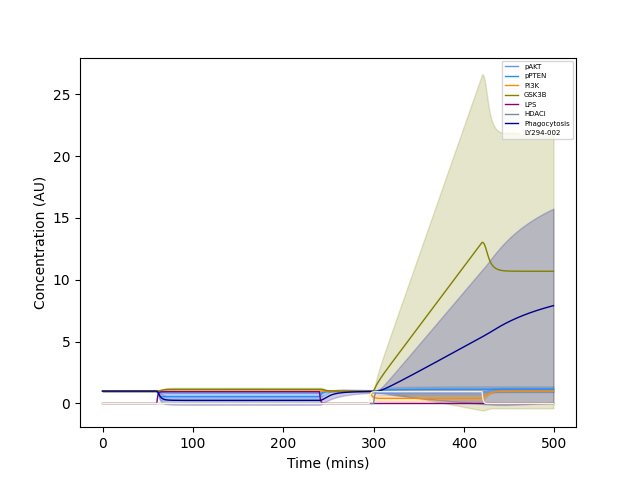
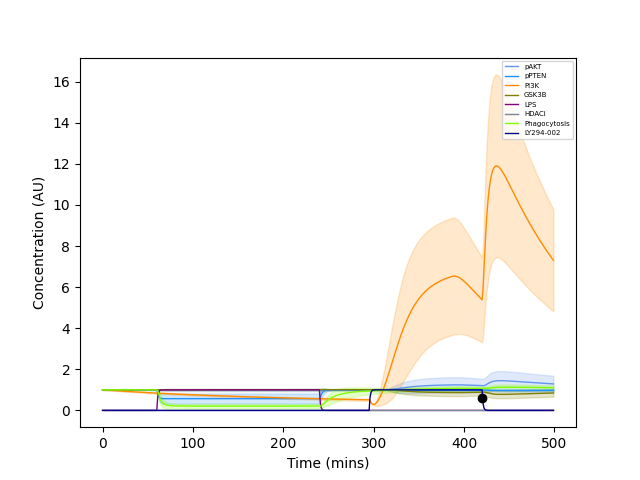
testing addition of ATP and PI3K

diff --git a/model_fitting_and_evaluation.py b/model_fitting_and_evaluation.py
@@ -49,8 +49,14 @@ if __name__ == "__main__":
     # check unfitted rates error
     print("Randomly Generated Error")
     network.set_parameters(np.random.rand(len([p for p in network.parameters.values() if p.fixed==False])), [p.identifier for p in network.parameters.values() if p.fixed==False])
-    original = network.graph_distributions(time, args.number, substrates_to_plot=["PI3K", "pAKT", "pPTEN", "Phagocytosis", "LPS", "HDACi", "GSK3B", "LY294-002"], normalize=True, path=os.path.join(args.output, "figure_0.png"))
+    original, original_fig = network.graph_distributions(time, args.number, substrates_to_plot=["PI3K", "pAKT", "pPTEN", "Phagocytosis", "LPS", "HDACi", "GSK3B", "LY294-002"], normalize=True, path=os.path.join(args.output, "figure_0.png"), output_figure=True)
     print(error(original, fit_dictionary, list(network.substrates.keys())))
+    print("BV2 --> Primary")
+    print(error(original, {"Phagocytosis": {420: 0.6}}, list(network.substrates.keys())))
+    plt.figure(original_fig)
+    plt.plot(420, 0.6, "ko")
+    original_fig.savefig(os.path.join(args.output, "figure_0.png"))
+    plt.close(original_fig)
     print()
 
     # load in pretrained parameters if any
@@ -73,6 +79,12 @@ if __name__ == "__main__":
     print("LPS, HDACi, LY294-002 Error")
     mean_y, f = network.graph_distributions(time, args.number, substrates_to_plot=["PI3K", "pAKT", "pPTEN", "Phagocytosis", "LPS", "HDACi", "GSK3B", "LY294-002"], normalize=True, path=os.path.join(args.output, "figure_3.png"), output_figure=True)
     print(error(mean_y, fit_dictionary, list(network.substrates.keys())))
+    print("BV2 --> Primary")
+    print(error(mean_y, {"Phagocytosis": {420: 0.6}}, list(network.substrates.keys())))
+    plt.figure(f)
+    plt.plot(420, 0.6, "ko")
+    f.savefig(os.path.join(args.output, "figure_3.png"))
+    plt.close(f)
     print()
 
     # check post-training validation error
@@ -84,8 +96,14 @@ if __name__ == "__main__":
         "PIP3": {"410": 0.8, "420": 0.8,},
         "GSK3B": {"410": 1.1, "420": 1.1,}
         }
-    mean_lps_hdaci_y = network.graph_distributions(time, args.number, substrates_to_plot=["PI3K", "pAKT", "pPTEN", "Phagocytosis", "LPS", "HDACi", "GSK3B", "LY294-002"], normalize=True, path=os.path.join(args.output, "figure_2.png"))
+    mean_lps_hdaci_y, lh_fig = network.graph_distributions(time, args.number, substrates_to_plot=["PI3K", "pAKT", "pPTEN", "Phagocytosis", "LPS", "HDACi", "GSK3B", "LY294-002"], normalize=True, path=os.path.join(args.output, "figure_2.png"), output_figure=True)
     print(error(mean_lps_hdaci_y, lps_hdaci, list(network.substrates.keys())))
+    print("BV2 --> Primary")
+    print(error(mean_lps_hdaci_y, {"Phagocytosis": {420: 2.7}}, list(network.substrates.keys())))
+    plt.figure(lh_fig)
+    plt.plot(420, 2.7, "ko")
+    lh_fig.savefig(os.path.join(args.output, "figure_2.png"))
+    plt.close(lh_fig)
     print()
 
     print("LPS Error")
@@ -97,6 +115,12 @@ if __name__ == "__main__":
         "GSK3B": {"410": 0.7, "420": 0.7,},
         "Phagocytosis": {"360": 0.80413556, "420": 1.04238109}
         }
-    mean_lps_y = network.graph_distributions(time, args.number, substrates_to_plot=["PI3K", "pAKT", "pPTEN", "Phagocytosis", "LPS", "HDACi", "GSK3B", "LY294-002"], normalize=True, path=os.path.join(args.output, "figure_1.png"))
+    mean_lps_y, l_f = network.graph_distributions(time, args.number, substrates_to_plot=["PI3K", "pAKT", "pPTEN", "Phagocytosis", "LPS", "HDACi", "GSK3B", "LY294-002"], normalize=True, path=os.path.join(args.output, "figure_1.png"), output_figure = True)
     print(error(mean_lps_y, lps, list(network.substrates.keys())))
+    print("BV2 --> Primary")
+    print(error(mean_lps_y, {"Phagocytosis": {420: 0.5}}, list(network.substrates.keys())))
+    plt.figure(l_f)
+    plt.plot(420, 0.5, "ko")
+    l_f.savefig(os.path.join(args.output, "figure_1.png"))
+    plt.close(l_f)
     print()

diff --git a/testing_atp.py b/testing_atp.py
@@ -1,0 +1,49 @@
+import pandas as pd
+import numpy as np
+import matplotlib.pyplot as plt
+import argparse
+import pdb
+import json
+import os
+
+from src.substrate import Substrate
+from src.interaction import Interaction
+from src.rate import Rate
+from src.network import Network
+from src.parse import parse_rates, parse_substrates, parse_interactions
+from src.score import error
+
+parser = argparse.ArgumentParser()
+parser.add_argument("-s", "--substrates", help="substrates csv", required=True)
+parser.add_argument("-r", "--rates", help="rates csv", required=True)
+parser.add_argument("-i", "--interactions", help="interactions csv", required=True)
+parser.add_argument("-o", "--output", help="path to the output directory to save output files", required=False, default=".")
+parser.add_argument("-p", "--parameters", help="pretrained parameters json file", required=False, default=None)
+parser.add_argument("-n", "--number", help="number of random samples for area plot", type=int, required=False, default=500)
+parser.add_argument("-t", "--toplot", help="list of substrates to plot", nargs="*", required=False, default=[])
+
+if __name__ == "__main__":
+    args = parser.parse_args()
+   
+    # parse and create all necessary objects for creating a network
+    rates = parse_rates(args.rates)
+    substrates = parse_substrates(args.substrates, rates)
+    interactions = parse_interactions(args.interactions, rates, substrates)
+    
+    # create a new instance of a network
+    network = Network("example", rates, interactions, substrates)
+    
+    # visualize network ordinary differential equations
+    time = np.array([i for i in range(500)])
+    derivatives = network.get_representation_dydt()
+    print(derivatives)
+    print()
+
+    # load in pretrained parameters if any
+    if args.parameters != None:
+        with open(args.parameters, "r") as fitted_params:
+            parameters = json.load(fitted_params)
+        network.set_parameters(list(parameters.values()), list(parameters.keys()))
+
+    # check post-training training error
+    mean_y, f = network.graph_distributions(time, args.number, substrates_to_plot=["PI3K", "pAKT", "pPTEN", "Phagocytosis", "LPS", "HDACi", "GSK3B", "LY294-002", "ATP"], normalize=True, path=os.path.join(args.output, "figure_atp.png"), output_figure=True)
